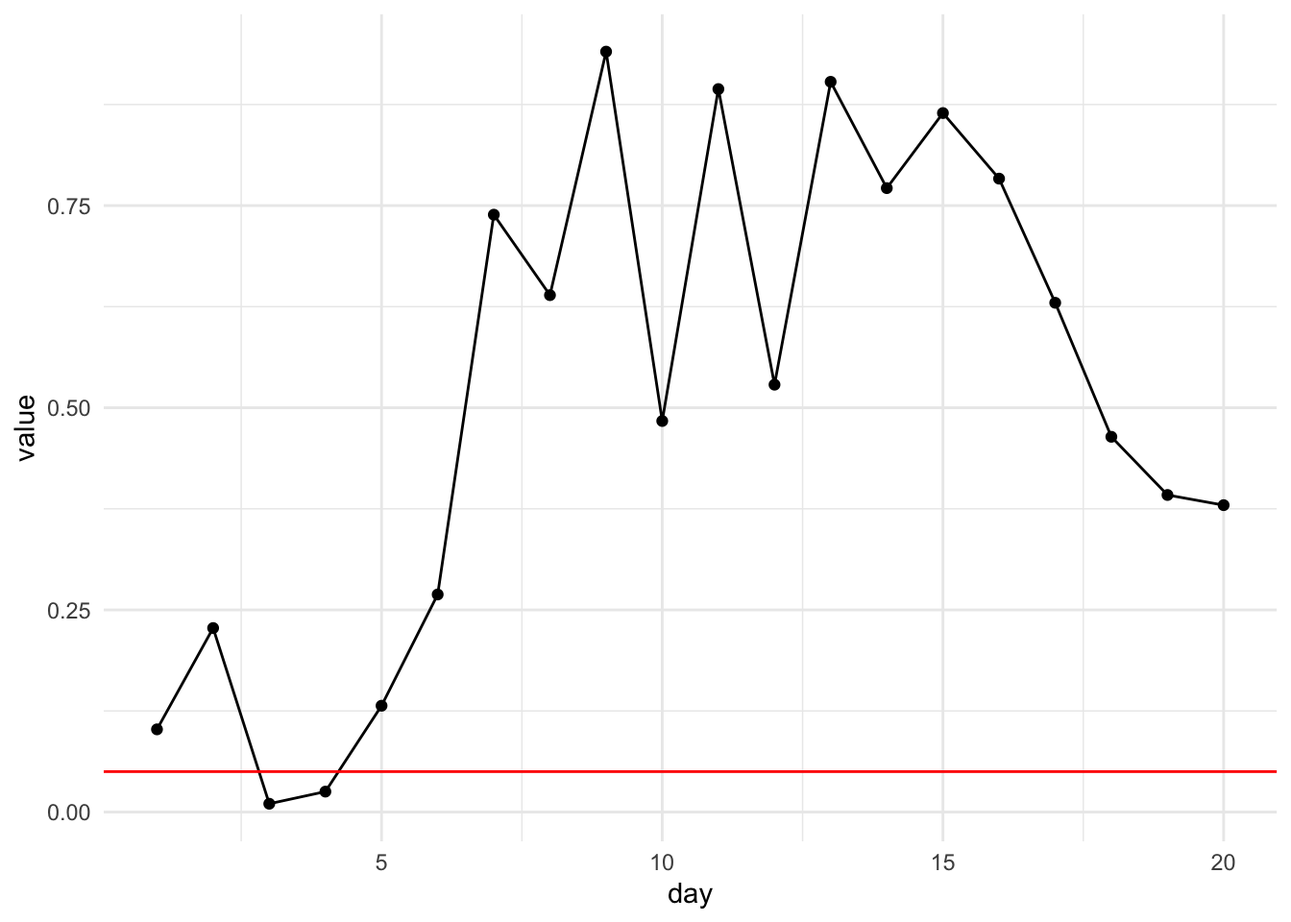
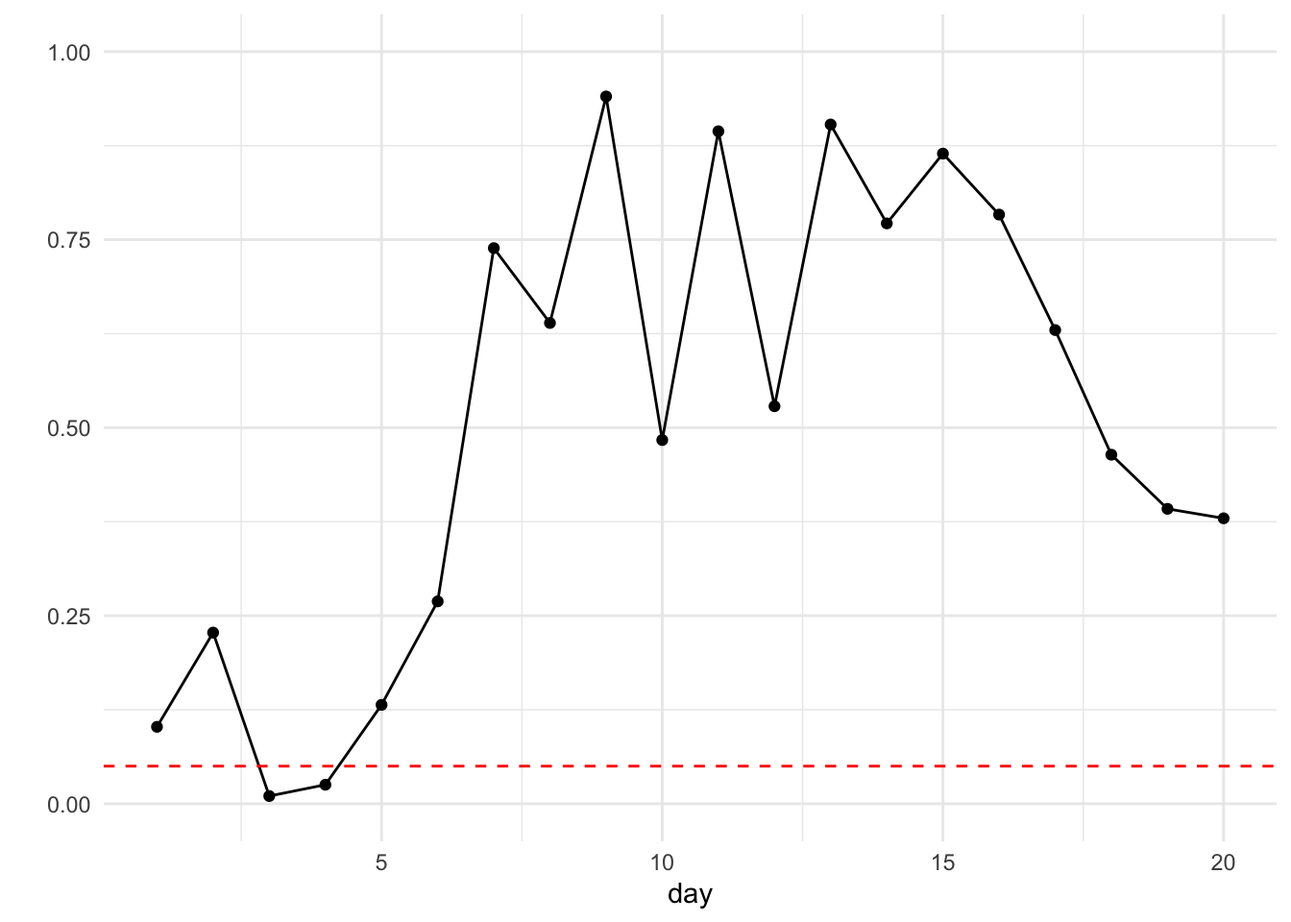
we need to have an outline first probably ...

diff --git a/docs/posts/ABtesting/index.html b/docs/posts/ABtesting/index.html
@@ -95,6 +95,9 @@ pre > code.sourceCode > span > a:first-child::before { text-decoration: underlin
 }</script>
 <script type="module" src="../../site_libs/quarto-ojs/quarto-ojs-runtime.js"></script>
 <link href="../../site_libs/quarto-ojs/quarto-ojs.css" rel="stylesheet">
+<script type="ojs-define">
+{"contents":[{"name":"day_data","value":{"value":[0.1023,0.2275,0.0103,0.0253,0.1315,0.2691,0.7388,0.6392,0.9404,0.4836,0.8941,0.5285,0.9031,0.7716,0.8644,0.7833,0.6298,0.4641,0.3921,0.3795],"day":[1,2,3,4,5,6,7,8,9,10,11,12,13,14,15,16,17,18,19,20]}}]}
+</script>
 <meta name="quarto:status" content="draft">
 
   <script src="https://cdnjs.cloudflare.com/polyfill/v3/polyfill.min.js?features=es6"></script>
@@ -170,6 +173,7 @@ window.Quarto = {
    
   <ul>
   <li><a href="#the-peeking-problem" id="toc-the-peeking-problem" class="nav-link active" data-scroll-target="#the-peeking-problem">The Peeking Problem</a></li>
+  <li><a href="#does-bayesian-ab-testing-solve-the-problem-of-peeking" id="toc-does-bayesian-ab-testing-solve-the-problem-of-peeking" class="nav-link" data-scroll-target="#does-bayesian-ab-testing-solve-the-problem-of-peeking">Does Bayesian A/B Testing solve the problem of peeking?</a></li>
   <li><a href="#bayesian-ab-testing-with-an-example." id="toc-bayesian-ab-testing-with-an-example." class="nav-link" data-scroll-target="#bayesian-ab-testing-with-an-example.">Bayesian A/B testing with an example.</a>
   <ul class="collapse">
   <li><a href="#beta-distribution" id="toc-beta-distribution" class="nav-link" data-scroll-target="#beta-distribution">Beta distribution</a></li>
@@ -281,19 +285,24 @@ window.Quarto = {
 <div class="cell">
 <details class="code-fold">
 <summary>Code</summary>
-<div class="code-copy-outer-scaffold"><div class="sourceCode cell-code" id="cb2"><pre class="sourceCode r code-with-copy"><code class="sourceCode r"><span id="cb2-1"><a href="#cb2-1" aria-hidden="true" tabindex="-1"></a>df <span class="ot">&lt;-</span> p_values_cum <span class="sc">%&gt;%</span> <span class="fu">as_tibble</span>() <span class="sc">%&gt;%</span> </span>
-<span id="cb2-2"><a href="#cb2-2" aria-hidden="true" tabindex="-1"></a>  <span class="fu">mutate</span>(<span class="at">day =</span> <span class="dv">1</span><span class="sc">:</span><span class="dv">20</span>)</span>
-<span id="cb2-3"><a href="#cb2-3" aria-hidden="true" tabindex="-1"></a></span>
-<span id="cb2-4"><a href="#cb2-4" aria-hidden="true" tabindex="-1"></a>df <span class="sc">%&gt;%</span> <span class="fu">ggplot</span>(<span class="fu">aes</span>(<span class="at">x =</span> day, <span class="at">y =</span> value)) <span class="sc">+</span> </span>
-<span id="cb2-5"><a href="#cb2-5" aria-hidden="true" tabindex="-1"></a>  <span class="fu">geom_line</span>() <span class="sc">+</span> </span>
-<span id="cb2-6"><a href="#cb2-6" aria-hidden="true" tabindex="-1"></a>  <span class="fu">geom_point</span>() <span class="sc">+</span> </span>
-<span id="cb2-7"><a href="#cb2-7" aria-hidden="true" tabindex="-1"></a>  <span class="fu">geom_hline</span>(<span class="at">yintercept =</span> <span class="fl">0.05</span>, <span class="at">color =</span> <span class="st">"red"</span>)</span></code></pre></div><button title="Copy to Clipboard" class="code-copy-button"><i class="bi"></i></button></div>
+<div class="code-copy-outer-scaffold"><div class="sourceCode cell-code" id="cb2" data-startfrom="94" data-source-offset="0"><pre class="sourceCode js code-with-copy"><code class="sourceCode javascript" style="counter-reset: source-line 93;"><span id="cb2-94"><a href="#cb2-94" aria-hidden="true" tabindex="-1"></a>Plot<span class="op">.</span><span class="fu">plot</span>({</span>
+<span id="cb2-95"><a href="#cb2-95" aria-hidden="true" tabindex="-1"></a>  <span class="dt">y</span><span class="op">:</span> {<span class="dt">grid</span><span class="op">:</span> <span class="kw">true</span>}<span class="op">,</span></span>
+<span id="cb2-96"><a href="#cb2-96" aria-hidden="true" tabindex="-1"></a>  <span class="dt">marks</span><span class="op">:</span> [</span>
+<span id="cb2-97"><a href="#cb2-97" aria-hidden="true" tabindex="-1"></a>    Plot<span class="op">.</span><span class="fu">ruleY</span>([<span class="fl">0.05</span>]<span class="op">,</span> {<span class="dt">stroke</span><span class="op">:</span> <span class="st">"red"</span><span class="op">,</span> <span class="dt">strokeDasharray</span><span class="op">:</span> <span class="st">"5,5"</span>})<span class="op">,</span> </span>
+<span id="cb2-98"><a href="#cb2-98" aria-hidden="true" tabindex="-1"></a>    Plot<span class="op">.</span><span class="fu">line</span>(<span class="fu">transpose</span>(day_data)<span class="op">,</span> </span>
+<span id="cb2-99"><a href="#cb2-99" aria-hidden="true" tabindex="-1"></a>      {<span class="dt">x</span><span class="op">:</span> <span class="st">"day"</span><span class="op">,</span> <span class="dt">y</span><span class="op">:</span> <span class="st">"value"</span>}<span class="op">,</span> </span>
+<span id="cb2-100"><a href="#cb2-100" aria-hidden="true" tabindex="-1"></a>      { <span class="dt">stroke</span><span class="op">:</span> <span class="st">"black"</span> }<span class="op">,</span></span>
+<span id="cb2-101"><a href="#cb2-101" aria-hidden="true" tabindex="-1"></a>    )<span class="op">,</span> </span>
+<span id="cb2-102"><a href="#cb2-102" aria-hidden="true" tabindex="-1"></a>    Plot<span class="op">.</span><span class="fu">dot</span>(<span class="fu">transpose</span>(day_data)<span class="op">,</span> </span>
+<span id="cb2-103"><a href="#cb2-103" aria-hidden="true" tabindex="-1"></a>    {<span class="dt">x</span><span class="op">:</span> <span class="st">"day"</span><span class="op">,</span> <span class="dt">y</span><span class="op">:</span> <span class="st">"value"</span>}<span class="op">,</span> </span>
+<span id="cb2-104"><a href="#cb2-104" aria-hidden="true" tabindex="-1"></a>    { <span class="dt">fill</span><span class="op">:</span> <span class="st">"black"</span> }<span class="op">,</span></span>
+<span id="cb2-105"><a href="#cb2-105" aria-hidden="true" tabindex="-1"></a>    )</span>
+<span id="cb2-106"><a href="#cb2-106" aria-hidden="true" tabindex="-1"></a>  ]}</span>
+<span id="cb2-107"><a href="#cb2-107" aria-hidden="true" tabindex="-1"></a>)</span></code></pre></div><button title="Copy to Clipboard" class="code-copy-button"><i class="bi"></i></button></div>
 </details>
-<div class="cell-output-display">
-<div>
-<figure class="figure">
-<p><img src="index_files/figure-html/unnamed-chunk-3-1.png" class="img-fluid figure-img" width="672"></p>
-</figure>
+<div class="cell-output cell-output-display">
+<div id="ojs-cell-1" data-nodetype="expression">
+
 </div>
 </div>
 </div>
@@ -304,46 +313,50 @@ window.Quarto = {
 <details class="code-fold">
 <summary>Code</summary>
 <div class="code-copy-outer-scaffold"><div class="sourceCode cell-code" id="cb3"><pre class="sourceCode r code-with-copy"><code class="sourceCode r"><span id="cb3-1"><a href="#cb3-1" aria-hidden="true" tabindex="-1"></a><span class="co"># define function for simulation </span></span>
-<span id="cb3-2"><a href="#cb3-2" aria-hidden="true" tabindex="-1"></a>sim_one_day <span class="ot">&lt;-</span> <span class="cf">function</span>(i){</span>
-<span id="cb3-3"><a href="#cb3-3" aria-hidden="true" tabindex="-1"></a>  <span class="co"># simulate daily clicks </span></span>
-<span id="cb3-4"><a href="#cb3-4" aria-hidden="true" tabindex="-1"></a>  clicks_A_daily <span class="ot">&lt;-</span> <span class="fu">rbinom</span>(<span class="dv">20</span>, <span class="at">size =</span> <span class="dv">10000</span>, <span class="at">prob =</span> <span class="fl">0.001</span>)</span>
-<span id="cb3-5"><a href="#cb3-5" aria-hidden="true" tabindex="-1"></a>  clicks_B_daily <span class="ot">&lt;-</span> <span class="fu">rbinom</span>(<span class="dv">20</span>, <span class="at">size =</span> <span class="dv">10000</span>, <span class="at">prob =</span> <span class="fl">0.001</span>)</span>
-<span id="cb3-6"><a href="#cb3-6" aria-hidden="true" tabindex="-1"></a>  <span class="co"># calculate cumulative clicks </span></span>
-<span id="cb3-7"><a href="#cb3-7" aria-hidden="true" tabindex="-1"></a>  clicks_A_cum <span class="ot">&lt;-</span> <span class="fu">cumsum</span>(clicks_A_daily)</span>
-<span id="cb3-8"><a href="#cb3-8" aria-hidden="true" tabindex="-1"></a>  clicks_B_cum <span class="ot">&lt;-</span> <span class="fu">cumsum</span>(clicks_B_daily)</span>
-<span id="cb3-9"><a href="#cb3-9" aria-hidden="true" tabindex="-1"></a>  </span>
-<span id="cb3-10"><a href="#cb3-10" aria-hidden="true" tabindex="-1"></a>  impressions_cum <span class="ot">&lt;-</span> (<span class="dv">1</span><span class="sc">:</span><span class="dv">20</span>) <span class="sc">*</span> <span class="dv">10000</span></span>
-<span id="cb3-11"><a href="#cb3-11" aria-hidden="true" tabindex="-1"></a>  </span>
-<span id="cb3-12"><a href="#cb3-12" aria-hidden="true" tabindex="-1"></a>  <span class="co"># loop and calculate p-value for each day </span></span>
-<span id="cb3-13"><a href="#cb3-13" aria-hidden="true" tabindex="-1"></a>  p_values_cum <span class="ot">&lt;-</span> <span class="fu">numeric</span>(<span class="dv">20</span>)</span>
-<span id="cb3-14"><a href="#cb3-14" aria-hidden="true" tabindex="-1"></a>  </span>
-<span id="cb3-15"><a href="#cb3-15" aria-hidden="true" tabindex="-1"></a>  <span class="cf">for</span> (d <span class="cf">in</span> <span class="dv">1</span><span class="sc">:</span><span class="dv">20</span>) {</span>
-<span id="cb3-16"><a href="#cb3-16" aria-hidden="true" tabindex="-1"></a>    k_A <span class="ot">&lt;-</span> clicks_A_cum[d]</span>
-<span id="cb3-17"><a href="#cb3-17" aria-hidden="true" tabindex="-1"></a>    k_B <span class="ot">&lt;-</span> clicks_B_cum[d]</span>
-<span id="cb3-18"><a href="#cb3-18" aria-hidden="true" tabindex="-1"></a>    n_total <span class="ot">&lt;-</span> d <span class="sc">*</span> <span class="dv">10000</span></span>
-<span id="cb3-19"><a href="#cb3-19" aria-hidden="true" tabindex="-1"></a>    </span>
-<span id="cb3-20"><a href="#cb3-20" aria-hidden="true" tabindex="-1"></a>    observed_data <span class="ot">&lt;-</span> <span class="fu">matrix</span>(</span>
-<span id="cb3-21"><a href="#cb3-21" aria-hidden="true" tabindex="-1"></a>      <span class="fu">c</span>(k_A, n_total <span class="sc">-</span> k_A,</span>
-<span id="cb3-22"><a href="#cb3-22" aria-hidden="true" tabindex="-1"></a>        k_B, n_total <span class="sc">-</span> k_B), </span>
-<span id="cb3-23"><a href="#cb3-23" aria-hidden="true" tabindex="-1"></a>      <span class="at">nrow =</span> <span class="dv">2</span>, </span>
-<span id="cb3-24"><a href="#cb3-24" aria-hidden="true" tabindex="-1"></a>      <span class="at">byrow =</span> <span class="cn">TRUE</span></span>
-<span id="cb3-25"><a href="#cb3-25" aria-hidden="true" tabindex="-1"></a>    )</span>
-<span id="cb3-26"><a href="#cb3-26" aria-hidden="true" tabindex="-1"></a>    </span>
-<span id="cb3-27"><a href="#cb3-27" aria-hidden="true" tabindex="-1"></a>    test_result <span class="ot">&lt;-</span> <span class="fu">chisq.test</span>(observed_data, <span class="at">correct =</span> <span class="cn">FALSE</span>)</span>
-<span id="cb3-28"><a href="#cb3-28" aria-hidden="true" tabindex="-1"></a>    </span>
-<span id="cb3-29"><a href="#cb3-29" aria-hidden="true" tabindex="-1"></a>    p_values_cum[d] <span class="ot">&lt;-</span> test_result<span class="sc">$</span>p.value</span>
-<span id="cb3-30"><a href="#cb3-30" aria-hidden="true" tabindex="-1"></a>  }</span>
-<span id="cb3-31"><a href="#cb3-31" aria-hidden="true" tabindex="-1"></a>  </span>
-<span id="cb3-32"><a href="#cb3-32" aria-hidden="true" tabindex="-1"></a>  p_values_cum <span class="sc">%&gt;%</span> <span class="fu">as_tibble</span>(.) <span class="sc">%&gt;%</span> </span>
-<span id="cb3-33"><a href="#cb3-33" aria-hidden="true" tabindex="-1"></a>    <span class="fu">mutate</span>(<span class="at">day =</span> <span class="dv">1</span><span class="sc">:</span><span class="dv">20</span>, </span>
-<span id="cb3-34"><a href="#cb3-34" aria-hidden="true" tabindex="-1"></a>           <span class="at">exp_id =</span> i)</span>
-<span id="cb3-35"><a href="#cb3-35" aria-hidden="true" tabindex="-1"></a>}</span>
-<span id="cb3-36"><a href="#cb3-36" aria-hidden="true" tabindex="-1"></a></span>
-<span id="cb3-37"><a href="#cb3-37" aria-hidden="true" tabindex="-1"></a>total_sim_df <span class="ot">&lt;-</span> <span class="fu">data.frame</span>()</span>
-<span id="cb3-38"><a href="#cb3-38" aria-hidden="true" tabindex="-1"></a></span>
-<span id="cb3-39"><a href="#cb3-39" aria-hidden="true" tabindex="-1"></a><span class="cf">for</span> (i <span class="cf">in</span> <span class="dv">1</span><span class="sc">:</span><span class="dv">100</span>){</span>
-<span id="cb3-40"><a href="#cb3-40" aria-hidden="true" tabindex="-1"></a>  total_sim_df <span class="ot">&lt;-</span> <span class="fu">rbind</span>(total_sim_df, <span class="fu">sim_one_day</span>(i))</span>
-<span id="cb3-41"><a href="#cb3-41" aria-hidden="true" tabindex="-1"></a>}</span></code></pre></div><button title="Copy to Clipboard" class="code-copy-button"><i class="bi"></i></button></div>
+<span id="cb3-2"><a href="#cb3-2" aria-hidden="true" tabindex="-1"></a></span>
+<span id="cb3-3"><a href="#cb3-3" aria-hidden="true" tabindex="-1"></a>clicks_A_all <span class="ot">&lt;-</span> <span class="fu">matrix</span>(<span class="fu">rbinom</span>(<span class="dv">20</span> <span class="sc">*</span> <span class="dv">100</span>, <span class="at">size =</span> <span class="dv">10000</span>, <span class="at">prob =</span> <span class="fl">0.001</span>), <span class="at">nrow=</span><span class="dv">100</span>, <span class="at">ncol=</span><span class="dv">20</span>)</span>
+<span id="cb3-4"><a href="#cb3-4" aria-hidden="true" tabindex="-1"></a>clicks_B_all <span class="ot">&lt;-</span> <span class="fu">matrix</span>(<span class="fu">rbinom</span>(<span class="dv">20</span> <span class="sc">*</span> <span class="dv">100</span>, <span class="at">size =</span> <span class="dv">10000</span>, <span class="at">prob =</span> <span class="fl">0.001</span>), <span class="at">nrow=</span><span class="dv">100</span>, <span class="at">ncol=</span><span class="dv">20</span>)</span>
+<span id="cb3-5"><a href="#cb3-5" aria-hidden="true" tabindex="-1"></a></span>
+<span id="cb3-6"><a href="#cb3-6" aria-hidden="true" tabindex="-1"></a>sim_one_day <span class="ot">&lt;-</span> <span class="cf">function</span>(i){</span>
+<span id="cb3-7"><a href="#cb3-7" aria-hidden="true" tabindex="-1"></a>  <span class="co"># simulate daily clicks </span></span>
+<span id="cb3-8"><a href="#cb3-8" aria-hidden="true" tabindex="-1"></a>  clicks_A_daily <span class="ot">&lt;-</span> <span class="fu">rbinom</span>(<span class="dv">20</span> <span class="sc">*</span> <span class="dv">100</span>, <span class="at">size =</span> <span class="dv">10000</span>, <span class="at">prob =</span> <span class="fl">0.001</span>)</span>
+<span id="cb3-9"><a href="#cb3-9" aria-hidden="true" tabindex="-1"></a>  clicks_B_daily <span class="ot">&lt;-</span> <span class="fu">rbinom</span>(<span class="dv">20</span>, <span class="at">size =</span> <span class="dv">10000</span>, <span class="at">prob =</span> <span class="fl">0.001</span>)</span>
+<span id="cb3-10"><a href="#cb3-10" aria-hidden="true" tabindex="-1"></a>  <span class="co"># calculate cumulative clicks </span></span>
+<span id="cb3-11"><a href="#cb3-11" aria-hidden="true" tabindex="-1"></a>  clicks_A_cum <span class="ot">&lt;-</span> <span class="fu">cumsum</span>(clicks_A_daily)</span>
+<span id="cb3-12"><a href="#cb3-12" aria-hidden="true" tabindex="-1"></a>  clicks_B_cum <span class="ot">&lt;-</span> <span class="fu">cumsum</span>(clicks_B_daily)</span>
+<span id="cb3-13"><a href="#cb3-13" aria-hidden="true" tabindex="-1"></a>  </span>
+<span id="cb3-14"><a href="#cb3-14" aria-hidden="true" tabindex="-1"></a>  impressions_cum <span class="ot">&lt;-</span> (<span class="dv">1</span><span class="sc">:</span><span class="dv">20</span>) <span class="sc">*</span> <span class="dv">10000</span></span>
+<span id="cb3-15"><a href="#cb3-15" aria-hidden="true" tabindex="-1"></a>  </span>
+<span id="cb3-16"><a href="#cb3-16" aria-hidden="true" tabindex="-1"></a>  <span class="co"># loop and calculate p-value for each day </span></span>
+<span id="cb3-17"><a href="#cb3-17" aria-hidden="true" tabindex="-1"></a>  p_values_cum <span class="ot">&lt;-</span> <span class="fu">numeric</span>(<span class="dv">20</span>)</span>
+<span id="cb3-18"><a href="#cb3-18" aria-hidden="true" tabindex="-1"></a>  </span>
+<span id="cb3-19"><a href="#cb3-19" aria-hidden="true" tabindex="-1"></a>  <span class="cf">for</span> (d <span class="cf">in</span> <span class="dv">1</span><span class="sc">:</span><span class="dv">20</span>) {</span>
+<span id="cb3-20"><a href="#cb3-20" aria-hidden="true" tabindex="-1"></a>    k_A <span class="ot">&lt;-</span> clicks_A_cum[d]</span>
+<span id="cb3-21"><a href="#cb3-21" aria-hidden="true" tabindex="-1"></a>    k_B <span class="ot">&lt;-</span> clicks_B_cum[d]</span>
+<span id="cb3-22"><a href="#cb3-22" aria-hidden="true" tabindex="-1"></a>    n_total <span class="ot">&lt;-</span> d <span class="sc">*</span> <span class="dv">10000</span></span>
+<span id="cb3-23"><a href="#cb3-23" aria-hidden="true" tabindex="-1"></a>    </span>
+<span id="cb3-24"><a href="#cb3-24" aria-hidden="true" tabindex="-1"></a>    observed_data <span class="ot">&lt;-</span> <span class="fu">matrix</span>(</span>
+<span id="cb3-25"><a href="#cb3-25" aria-hidden="true" tabindex="-1"></a>      <span class="fu">c</span>(k_A, n_total <span class="sc">-</span> k_A,</span>
+<span id="cb3-26"><a href="#cb3-26" aria-hidden="true" tabindex="-1"></a>        k_B, n_total <span class="sc">-</span> k_B), </span>
+<span id="cb3-27"><a href="#cb3-27" aria-hidden="true" tabindex="-1"></a>      <span class="at">nrow =</span> <span class="dv">2</span>, </span>
+<span id="cb3-28"><a href="#cb3-28" aria-hidden="true" tabindex="-1"></a>      <span class="at">byrow =</span> <span class="cn">TRUE</span></span>
+<span id="cb3-29"><a href="#cb3-29" aria-hidden="true" tabindex="-1"></a>    )</span>
+<span id="cb3-30"><a href="#cb3-30" aria-hidden="true" tabindex="-1"></a>    </span>
+<span id="cb3-31"><a href="#cb3-31" aria-hidden="true" tabindex="-1"></a>    test_result <span class="ot">&lt;-</span> <span class="fu">chisq.test</span>(observed_data, <span class="at">correct =</span> <span class="cn">FALSE</span>)</span>
+<span id="cb3-32"><a href="#cb3-32" aria-hidden="true" tabindex="-1"></a>    </span>
+<span id="cb3-33"><a href="#cb3-33" aria-hidden="true" tabindex="-1"></a>    p_values_cum[d] <span class="ot">&lt;-</span> test_result<span class="sc">$</span>p.value</span>
+<span id="cb3-34"><a href="#cb3-34" aria-hidden="true" tabindex="-1"></a>  }</span>
+<span id="cb3-35"><a href="#cb3-35" aria-hidden="true" tabindex="-1"></a>  </span>
+<span id="cb3-36"><a href="#cb3-36" aria-hidden="true" tabindex="-1"></a>  p_values_cum <span class="sc">%&gt;%</span> <span class="fu">as_tibble</span>(.) <span class="sc">%&gt;%</span> </span>
+<span id="cb3-37"><a href="#cb3-37" aria-hidden="true" tabindex="-1"></a>    <span class="fu">mutate</span>(<span class="at">day =</span> <span class="dv">1</span><span class="sc">:</span><span class="dv">20</span>, </span>
+<span id="cb3-38"><a href="#cb3-38" aria-hidden="true" tabindex="-1"></a>           <span class="at">exp_id =</span> i)</span>
+<span id="cb3-39"><a href="#cb3-39" aria-hidden="true" tabindex="-1"></a>}</span>
+<span id="cb3-40"><a href="#cb3-40" aria-hidden="true" tabindex="-1"></a></span>
+<span id="cb3-41"><a href="#cb3-41" aria-hidden="true" tabindex="-1"></a>total_sim_df <span class="ot">&lt;-</span> <span class="fu">data.frame</span>()</span>
+<span id="cb3-42"><a href="#cb3-42" aria-hidden="true" tabindex="-1"></a></span>
+<span id="cb3-43"><a href="#cb3-43" aria-hidden="true" tabindex="-1"></a><span class="cf">for</span> (i <span class="cf">in</span> <span class="dv">1</span><span class="sc">:</span><span class="dv">100</span>){</span>
+<span id="cb3-44"><a href="#cb3-44" aria-hidden="true" tabindex="-1"></a>  total_sim_df <span class="ot">&lt;-</span> <span class="fu">rbind</span>(total_sim_df, <span class="fu">sim_one_day</span>(i))</span>
+<span id="cb3-45"><a href="#cb3-45" aria-hidden="true" tabindex="-1"></a>}</span></code></pre></div><button title="Copy to Clipboard" class="code-copy-button"><i class="bi"></i></button></div>
 </details>
 <div class="cell-output cell-output-stderr">
 <pre><code>Warning in chisq.test(observed_data, correct = FALSE): Chi-squared
@@ -362,8 +375,8 @@ approximation may be incorrect</code></pre>
 # Groups:   ever_sig [2]
   ever_sig     n
   &lt;lgl&gt;    &lt;int&gt;
-1 FALSE     1560
-2 TRUE       440</code></pre>
+1 FALSE     1620
+2 TRUE       380</code></pre>
 </div>
 <details class="code-fold">
 <summary>Code</summary>
@@ -379,32 +392,37 @@ approximation may be incorrect</code></pre>
 <div class="cell-output-display">
 <div>
 <figure class="figure">
-<p><img src="index_files/figure-html/unnamed-chunk-4-1.png" class="img-fluid figure-img" width="672"></p>
+<p><img src="index_files/figure-html/unnamed-chunk-5-1.png" class="img-fluid figure-img" width="672"></p>
 </figure>
 </div>
 </div>
 </div>
+<p>Note that the above example is adapted from [how not to run an A/B test].</p>
 <p>Anyways, the promise that the frequentist paradigm is making is that it helps control the type I error. When executed correctly. Bayesians don’t help with this.</p>
 <p>If we do want to do things correctly and not let’s say, run an experiment for an indefinite amount of time, another thing to do is to implement (frequentist) sequential Bayesian testing correctly.</p>
-<div class="callout callout-style-default callout-note callout-titled">
-<div class="callout-header d-flex align-content-center">
-<div class="callout-icon-container">
-<i class="callout-icon"></i>
+</section>
+<section id="does-bayesian-ab-testing-solve-the-problem-of-peeking" class="level1">
+<h1>Does Bayesian A/B Testing solve the problem of peeking<a href="#fn3" class="footnote-ref" id="fnref3" role="doc-noteref"><sup>3</sup></a>?</h1>
+<p>The short answer is <em>not necessarily</em>. See explanations <a href="https://www.alexmolas.com/2025/10/30/bayesian-ab-test-peeking.html">here</a> and <a href="http://varianceexplained.org/r/bayesian-ab-testing/">here</a>.</p>
+<div class="cell">
+<div class="code-copy-outer-scaffold"><div class="sourceCode cell-code" id="cb8"><pre class="sourceCode r code-with-copy"><code class="sourceCode r"><span id="cb8-1"><a href="#cb8-1" aria-hidden="true" tabindex="-1"></a><span class="co"># code-fold: true </span></span>
+<span id="cb8-2"><a href="#cb8-2" aria-hidden="true" tabindex="-1"></a><span class="co"># test to see if this is right ... </span></span>
+<span id="cb8-3"><a href="#cb8-3" aria-hidden="true" tabindex="-1"></a><span class="fu">chisq.test</span>(<span class="fu">matrix</span>(<span class="fu">c</span>(<span class="dv">127</span>, <span class="dv">5734</span> <span class="sc">-</span> <span class="dv">127</span>, </span>
+<span id="cb8-4"><a href="#cb8-4" aria-hidden="true" tabindex="-1"></a>  <span class="dv">174</span>, <span class="dv">5851</span> <span class="sc">-</span> <span class="dv">174</span>), <span class="at">nrow=</span><span class="dv">2</span>, <span class="at">byrow=</span> <span class="cn">TRUE</span>))</span></code></pre></div><button title="Copy to Clipboard" class="code-copy-button"><i class="bi"></i></button></div>
+<div class="cell-output cell-output-stdout">
+<pre><code>
+    Pearson's Chi-squared test with Yates' continuity correction
+
+data:  matrix(c(127, 5734 - 127, 174, 5851 - 174), nrow = 2, byrow = TRUE)
+X-squared = 6.2957, df = 1, p-value = 0.0121</code></pre>
 </div>
-<div class="callout-title-container flex-fill">
-<span class="screen-reader-only">Note</span>Does Bayesian A/B Testing solve the problem of peeking<a href="#fn3" class="footnote-ref" id="fnref3" role="doc-noteref"><sup>3</sup></a>?
 </div>
-</div>
-<div class="callout-body-container callout-body">
-<p>The short answer is no. See explanations <a href="https://www.alexmolas.com/2025/10/30/bayesian-ab-test-peeking.html">here</a> and <a href="http://varianceexplained.org/r/bayesian-ab-testing/">here</a>.</p>
 <p>There is also this <a href="https://alexdeng.github.io/public/files/continuousMonitoring.pdf">research paper</a> on optional stopping in Bayesian testing.</p>
-</div>
-</div>
-<div class="no-row-height column-margin column-container"><div id="fn3"><p><sup>3</sup>&nbsp;aka “optional stopping”</p></div></div></section>
-<section id="bayesian-ab-testing-with-an-example." class="level1 page-columns page-full">
+</section>
+<div class="no-row-height column-margin column-container"><div id="fn3"><p><sup>3</sup>&nbsp;aka “optional stopping”</p></div></div><section id="bayesian-ab-testing-with-an-example." class="level1 page-columns page-full">
 <h1>Bayesian A/B testing with an example.</h1>
 <div class="callout callout-style-default callout-note callout-titled">
-<div class="callout-header d-flex align-content-center collapsed" data-bs-toggle="collapse" data-bs-target=".callout-3-contents" aria-controls="callout-3" aria-expanded="false" aria-label="Toggle callout">
+<div class="callout-header d-flex align-content-center collapsed" data-bs-toggle="collapse" data-bs-target=".callout-2-contents" aria-controls="callout-2" aria-expanded="false" aria-label="Toggle callout">
 <div class="callout-icon-container">
 <i class="callout-icon"></i>
 </div>
@@ -413,7 +431,7 @@ approximation may be incorrect</code></pre>
 </div>
 <div class="callout-btn-toggle d-inline-block border-0 py-1 ps-1 pe-0 float-end"><i class="callout-toggle"></i></div>
 </div>
-<div id="callout-3" class="callout-3-contents callout-collapse collapse">
+<div id="callout-2" class="callout-2-contents callout-collapse collapse">
 <div class="callout-body-container callout-body">
 <ul>
 <li><a href="https://www.kaggle.com/code/laurinbrechter/bayesian-a-b-testing/input">this blogpost</a> from Kaggle that uses PyMC.</li>
@@ -429,34 +447,34 @@ approximation may be incorrect</code></pre>
 <div class="no-row-height column-margin column-container"><div id="fn4"><p><sup>4</sup>&nbsp;<a href="https://en.wikipedia.org/wiki/Conjugate_prior">conjugate prior</a></p></div></div><section id="beta-distribution" class="level3">
 <h3 class="anchored" data-anchor-id="beta-distribution">Beta distribution</h3>
 <div class="cell card bg-light p-2 g-col-24 g-col-lg-7">
-<div class="code-copy-outer-scaffold"><div class="sourceCode cell-code" id="cb8" data-startfrom="180" data-source-offset="-0"><pre class="sourceCode js code-with-copy"><code class="sourceCode javascript" style="counter-reset: source-line 179;"><span id="cb8-180"><a href="#cb8-180" aria-hidden="true" tabindex="-1"></a>viewof mu <span class="op">=</span> Inputs<span class="op">.</span><span class="fu">range</span>([<span class="op">-</span><span class="dv">10</span><span class="op">,</span> <span class="dv">10</span>]<span class="op">,</span> {<span class="dt">value</span><span class="op">:</span> <span class="dv">0</span><span class="op">,</span> <span class="dt">step</span><span class="op">:</span> <span class="fl">0.1</span><span class="op">,</span> <span class="dt">label</span><span class="op">:</span> <span class="st">"Location (mu)"</span>})</span>
-<span id="cb8-181"><a href="#cb8-181" aria-hidden="true" tabindex="-1"></a>viewof sigma <span class="op">=</span> Inputs<span class="op">.</span><span class="fu">range</span>([<span class="fl">0.1</span><span class="op">,</span> <span class="dv">10</span>]<span class="op">,</span> {<span class="dt">value</span><span class="op">:</span> <span class="dv">1</span><span class="op">,</span> <span class="dt">step</span><span class="op">:</span> <span class="fl">0.1</span><span class="op">,</span> <span class="dt">label</span><span class="op">:</span> <span class="st">"Scale (sigma)"</span>})</span>
-<span id="cb8-182"><a href="#cb8-182" aria-hidden="true" tabindex="-1"></a>viewof lambda_val <span class="op">=</span> Inputs<span class="op">.</span><span class="fu">range</span>([<span class="op">-</span><span class="dv">5</span><span class="op">,</span> <span class="dv">5</span>]<span class="op">,</span> {<span class="dt">value</span><span class="op">:</span> <span class="dv">0</span><span class="op">,</span> <span class="dt">step</span><span class="op">:</span> <span class="fl">0.1</span><span class="op">,</span> <span class="dt">label</span><span class="op">:</span> <span class="st">"Skew (lambda)"</span>})</span>
-<span id="cb8-183"><a href="#cb8-183" aria-hidden="true" tabindex="-1"></a>viewof nu <span class="op">=</span> Inputs<span class="op">.</span><span class="fu">range</span>([<span class="dv">1</span><span class="op">,</span> <span class="dv">100</span>]<span class="op">,</span> {<span class="dt">value</span><span class="op">:</span> <span class="dv">10</span><span class="op">,</span> <span class="dt">step</span><span class="op">:</span> <span class="dv">1</span><span class="op">,</span> <span class="dt">label</span><span class="op">:</span> <span class="st">"Degrees of Freedom (nu)"</span>})</span></code></pre></div><button title="Copy to Clipboard" class="code-copy-button"><i class="bi"></i></button></div>
+<div class="code-copy-outer-scaffold"><div class="sourceCode cell-code" id="cb10" data-startfrom="218" data-source-offset="-0"><pre class="sourceCode js code-with-copy"><code class="sourceCode javascript" style="counter-reset: source-line 217;"><span id="cb10-218"><a href="#cb10-218" aria-hidden="true" tabindex="-1"></a>viewof mu <span class="op">=</span> Inputs<span class="op">.</span><span class="fu">range</span>([<span class="op">-</span><span class="dv">10</span><span class="op">,</span> <span class="dv">10</span>]<span class="op">,</span> {<span class="dt">value</span><span class="op">:</span> <span class="dv">0</span><span class="op">,</span> <span class="dt">step</span><span class="op">:</span> <span class="fl">0.1</span><span class="op">,</span> <span class="dt">label</span><span class="op">:</span> <span class="st">"Location (mu)"</span>})</span>
+<span id="cb10-219"><a href="#cb10-219" aria-hidden="true" tabindex="-1"></a>viewof sigma <span class="op">=</span> Inputs<span class="op">.</span><span class="fu">range</span>([<span class="fl">0.1</span><span class="op">,</span> <span class="dv">10</span>]<span class="op">,</span> {<span class="dt">value</span><span class="op">:</span> <span class="dv">1</span><span class="op">,</span> <span class="dt">step</span><span class="op">:</span> <span class="fl">0.1</span><span class="op">,</span> <span class="dt">label</span><span class="op">:</span> <span class="st">"Scale (sigma)"</span>})</span>
+<span id="cb10-220"><a href="#cb10-220" aria-hidden="true" tabindex="-1"></a>viewof lambda_val <span class="op">=</span> Inputs<span class="op">.</span><span class="fu">range</span>([<span class="op">-</span><span class="dv">5</span><span class="op">,</span> <span class="dv">5</span>]<span class="op">,</span> {<span class="dt">value</span><span class="op">:</span> <span class="dv">0</span><span class="op">,</span> <span class="dt">step</span><span class="op">:</span> <span class="fl">0.1</span><span class="op">,</span> <span class="dt">label</span><span class="op">:</span> <span class="st">"Skew (lambda)"</span>})</span>
+<span id="cb10-221"><a href="#cb10-221" aria-hidden="true" tabindex="-1"></a>viewof nu <span class="op">=</span> Inputs<span class="op">.</span><span class="fu">range</span>([<span class="dv">1</span><span class="op">,</span> <span class="dv">100</span>]<span class="op">,</span> {<span class="dt">value</span><span class="op">:</span> <span class="dv">10</span><span class="op">,</span> <span class="dt">step</span><span class="op">:</span> <span class="dv">1</span><span class="op">,</span> <span class="dt">label</span><span class="op">:</span> <span class="st">"Degrees of Freedom (nu)"</span>})</span></code></pre></div><button title="Copy to Clipboard" class="code-copy-button"><i class="bi"></i></button></div>
 <div class="cell-output cell-output-display">
 <div>
-<div id="ojs-cell-1-1" data-nodetype="declaration">
+<div id="ojs-cell-2-1" data-nodetype="declaration">
 
 </div>
 </div>
 </div>
 <div class="cell-output cell-output-display">
 <div>
-<div id="ojs-cell-1-2" data-nodetype="declaration">
+<div id="ojs-cell-2-2" data-nodetype="declaration">
 
 </div>
 </div>
 </div>
 <div class="cell-output cell-output-display">
 <div>
-<div id="ojs-cell-1-3" data-nodetype="declaration">
+<div id="ojs-cell-2-3" data-nodetype="declaration">
 
 </div>
 </div>
 </div>
 <div class="cell-output cell-output-display">
 <div>
-<div id="ojs-cell-1-4" data-nodetype="declaration">
+<div id="ojs-cell-2-4" data-nodetype="declaration">
 
 </div>
 </div>
@@ -474,7 +492,7 @@ approximation may be incorrect</code></pre>
 
 </main> <!-- /main -->
 <script type="ojs-module-contents">
[2 lines of base64/hex data omitted]
 </script>
 <script type="module">
 if (window.location.protocol === "file:") { alert("The OJS runtime does not work with file:// URLs. Please use a web server to view this document."); }
